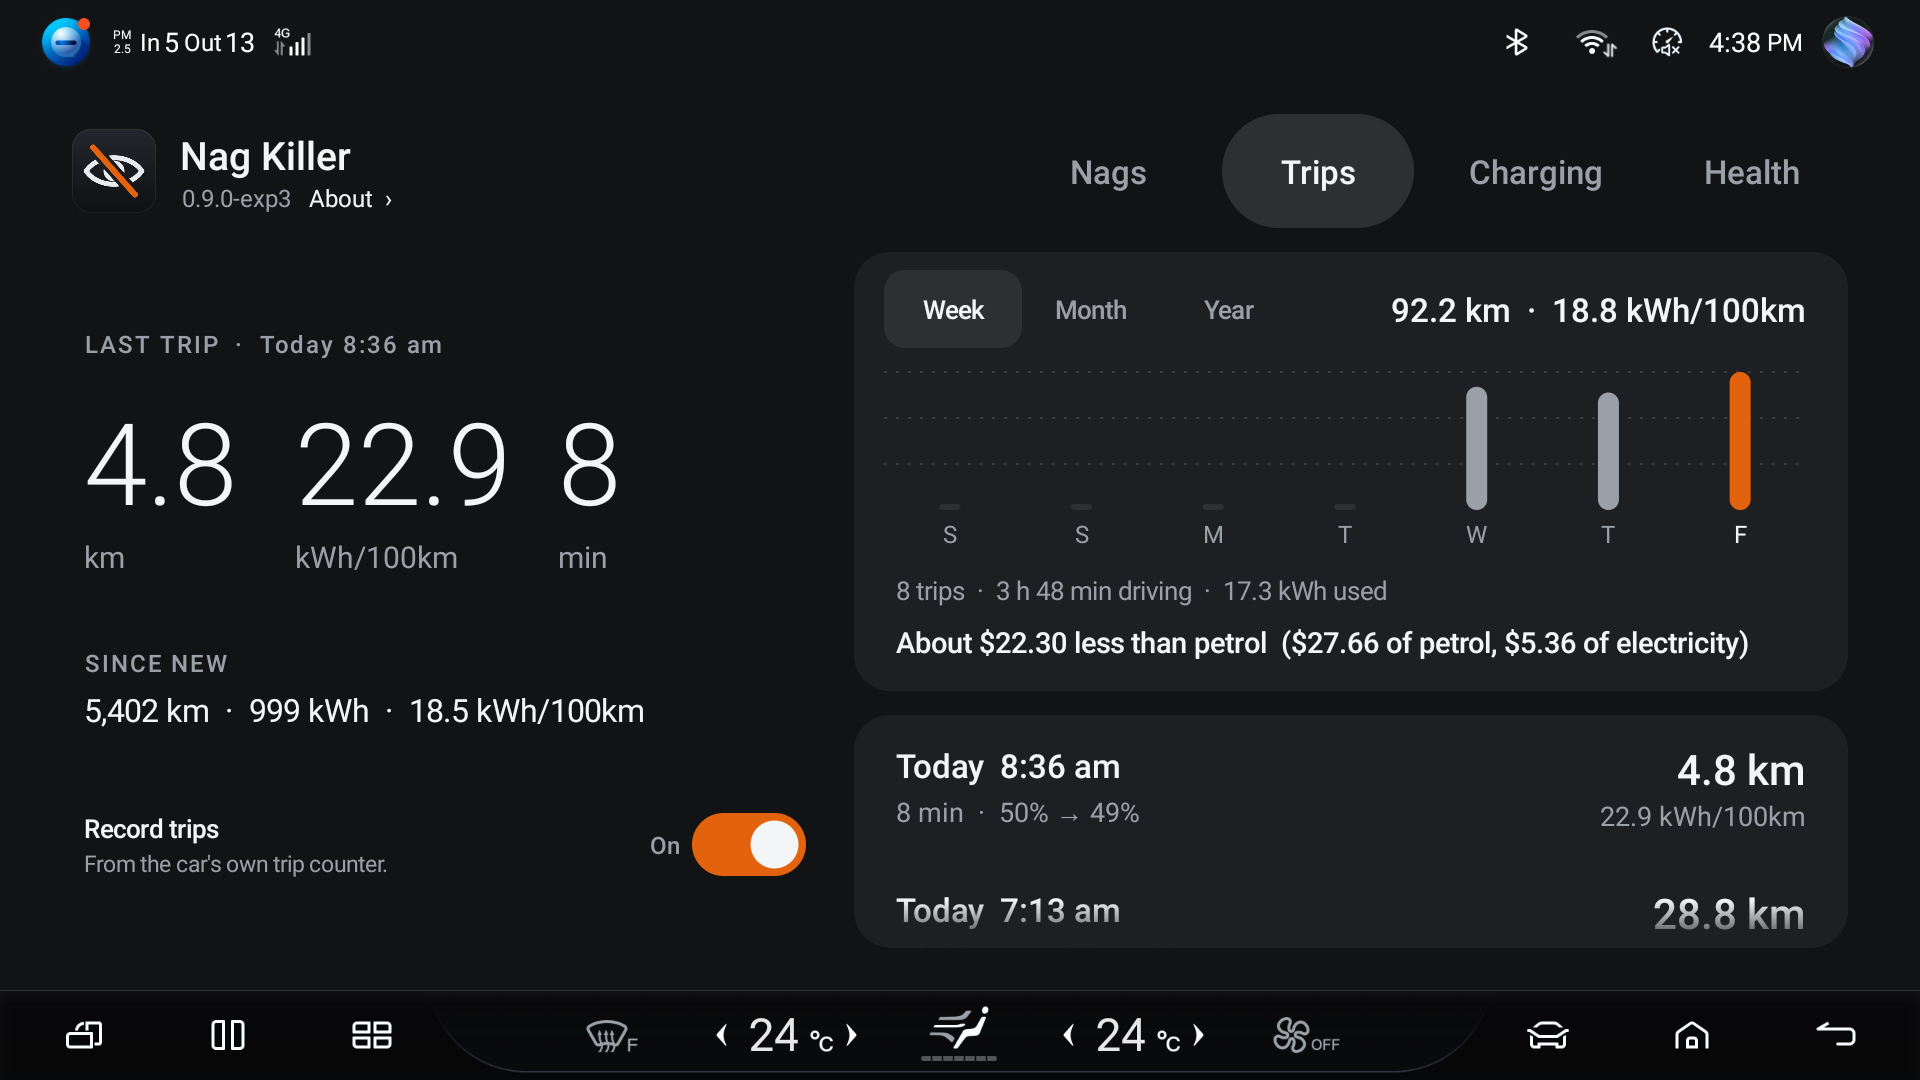
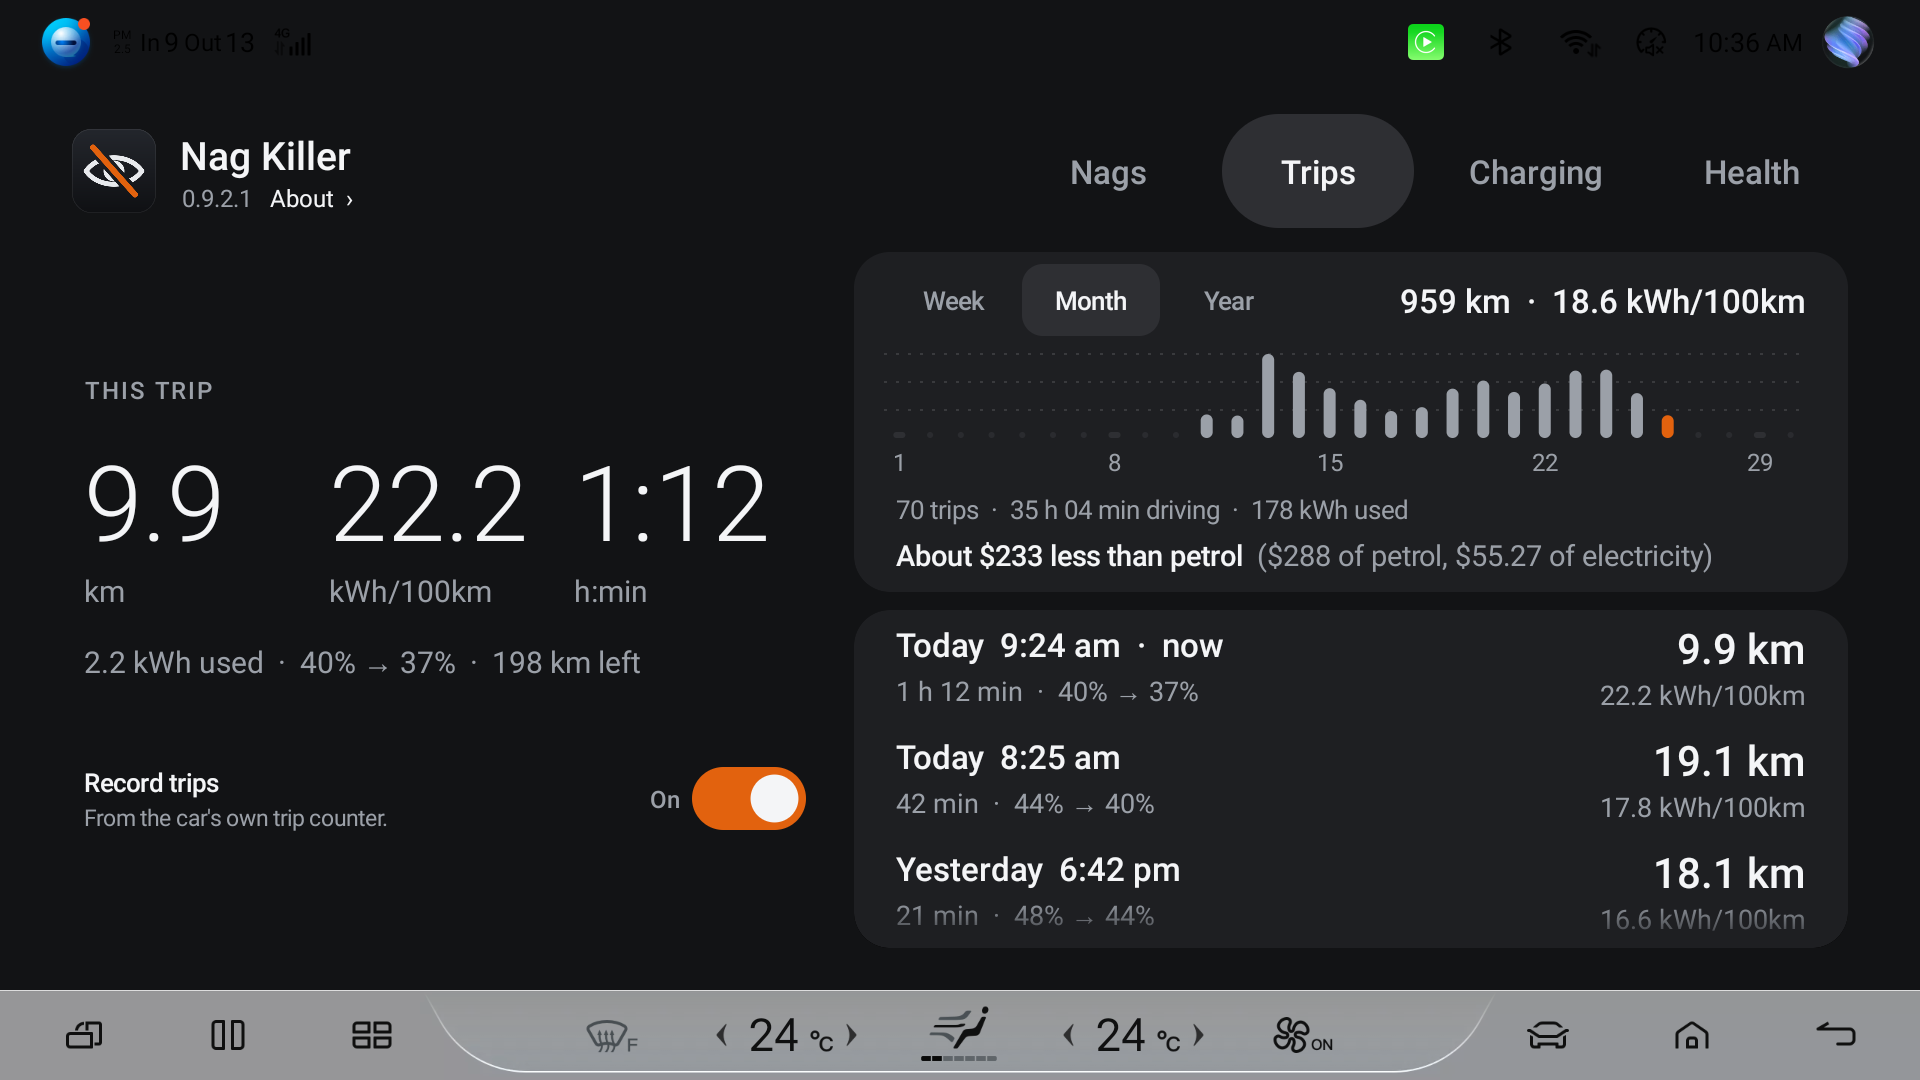
README for 0.9.2.1: Charging figures, since new on Health, range while driving; new pictures of the Trips, Charging and Health tabs from the car

diff --git a/README.md b/README.md
@@ -63,8 +63,8 @@ Everything stays on the car. None of it is sent anywhere.
 Every drive: distance, time, energy used, kWh/100km and battery % at the start and end, with a
 chart you can switch between week, month and year. It copies the car's own trip counter (the
 one the dash shows when you turn the car off), so the numbers match the car. Stops under 10
-minutes count as one trip. While you're driving it only shows the current trip; the history
-appears in Park.
+minutes count as one trip. While you're driving it only shows the current trip and the range
+left, in big figures; the history appears in Park.
 
 If you enter a petrol price and what a petrol car would use, it shows what you've saved against
 petrol. A copy of the log is saved as `trips.csv` in `/sdcard/Android/data/au.jaso.naglab/files/`.
@@ -73,9 +73,10 @@ petrol. A copy of the log is saved as `trips.csv` in `/sdcard/Android/data/au.ja
 
 ### Charging
 
-The battery percent and range, and a list of your charges with before and after percent and the
-kWh that went into the battery. If you sit in the car while it's plugged in you also get kW and
-the car's own time to full.
+The battery percent and range, how far you've driven since the last charge, this month's
+charging in three figures (kWh, number of charges, estimated cost), and a list of your charges
+with before and after percent and the kWh that went into the battery. If you sit in the car
+while it's plugged in you also get kW and the car's own time to full.
 
 * The app tries to tell AC from DC fast charging by itself. You can change it on any charge.
 * Enter what you pay per kWh for AC and for DC and each charge gets a cost. If a charge cost
@@ -90,7 +91,8 @@ the car's own time to full.
 State of health from one battery test: what a full battery holds now against what it held
 new, with BYD Australia's 70% warranty line marked. New is 82.56 kWh on most cars and 91.3 kWh
 on the European Excellence AWD. The app works out which one you have from the test, and you
-can pick it yourself on the Health tab.
+can pick it yourself on the Health tab. The tab also shows the car's own lifetime figures: km,
+kWh used and kWh/100km since new.
 
 * Battery test: start it when the battery is at 10% or less, charge to 100% on an AC charger
   without driving, and the app works out the figure from that one charge. The car can be off
